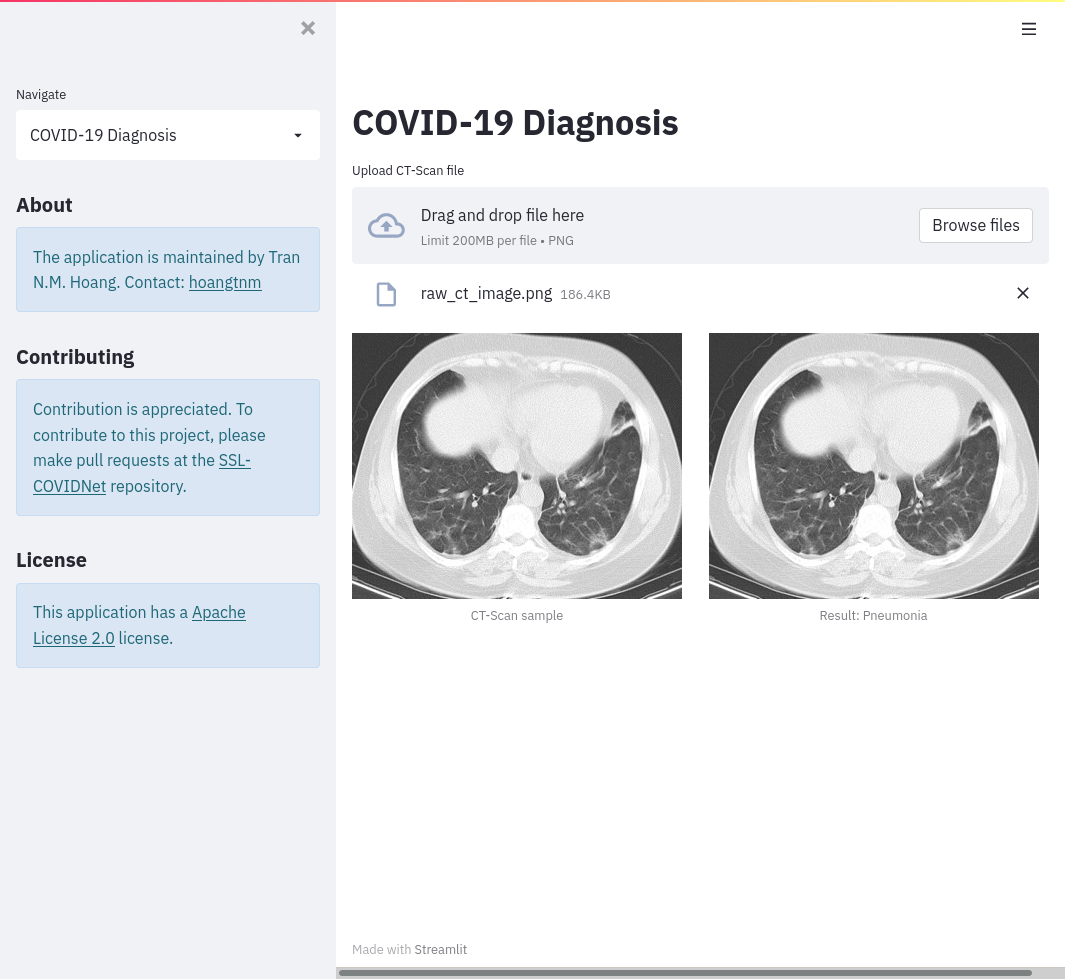
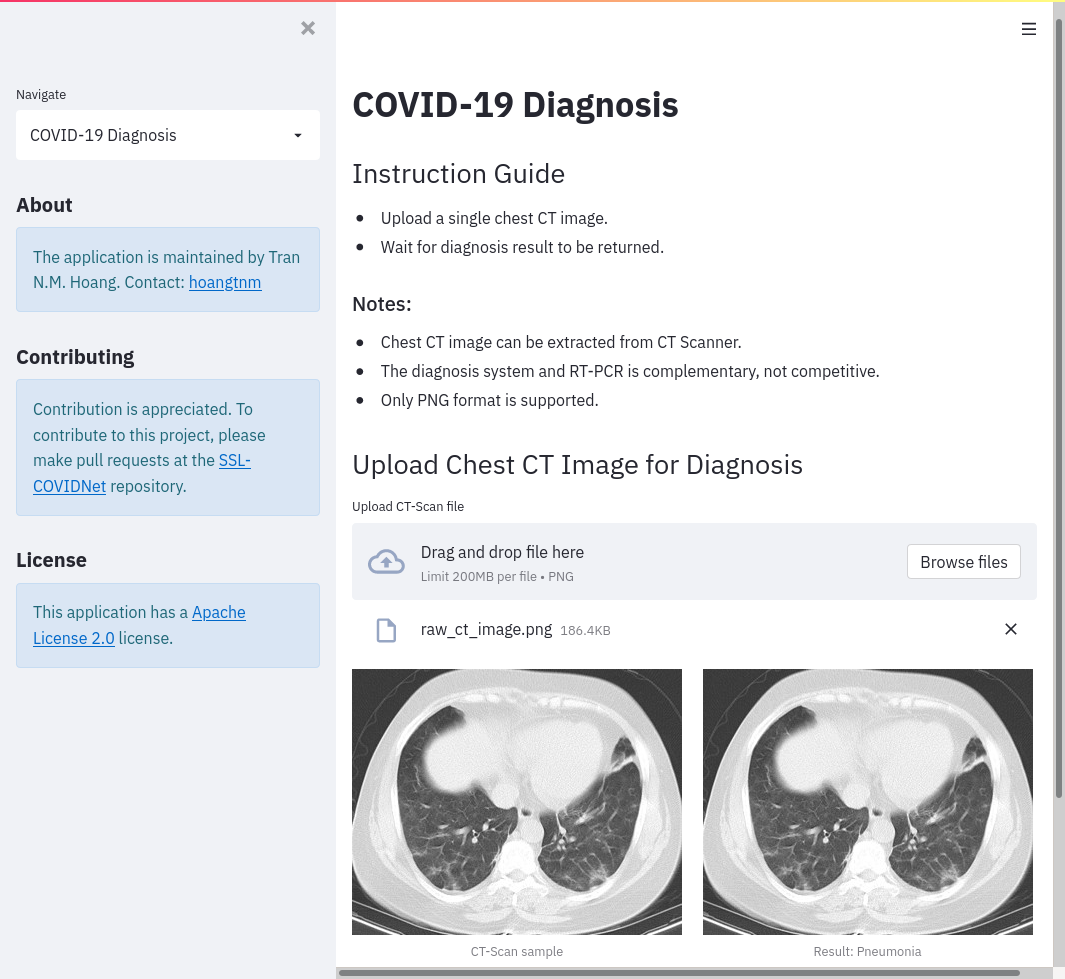
feat: update Diagnosis page

diff --git a/pages/inference.py b/pages/inference.py
@@ -36,16 +36,23 @@ def get_net(backbone_checkpoint, model_checkpoint):
 def app():
     try:
         st.title("COVID-19 Diagnosis")
+        st.header("Instruction Guide")
+        st.write("""
+            - Upload a single chest CT image.
+            - Wait for diagnosis result to be returned.
+        """)
+        st.subheader("Notes:")
+        st.write("""
+            - Chest CT image can be extracted from CT Scanner.
+            - The diagnosis system and RT-PCR is complementary, not competitive.
+            - Only PNG format is supported.
+        """)
         assert Path(BACKBONE_CHECKPOINT).exists(), "FE checkpoint not found."
         assert Path(MODEL_CHECKPOINT).exists(), "Model checkpoint not found."
         model = get_net(BACKBONE_CHECKPOINT, MODEL_CHECKPOINT)
         model.eval()
 
-        sidebar = st.sidebar
-        sidebar.title("Sidebar")
-        sidebar.selectbox("Choose a demo",
-                          ("Exploratory Data Analysis", "COVID-19 Detection"))
-
+        st.header("Upload Chest CT Image for Diagnosis")
         uploaded_image = st.file_uploader("Upload CT-Scan file", type=["png"])
 
         if not uploaded_image:
